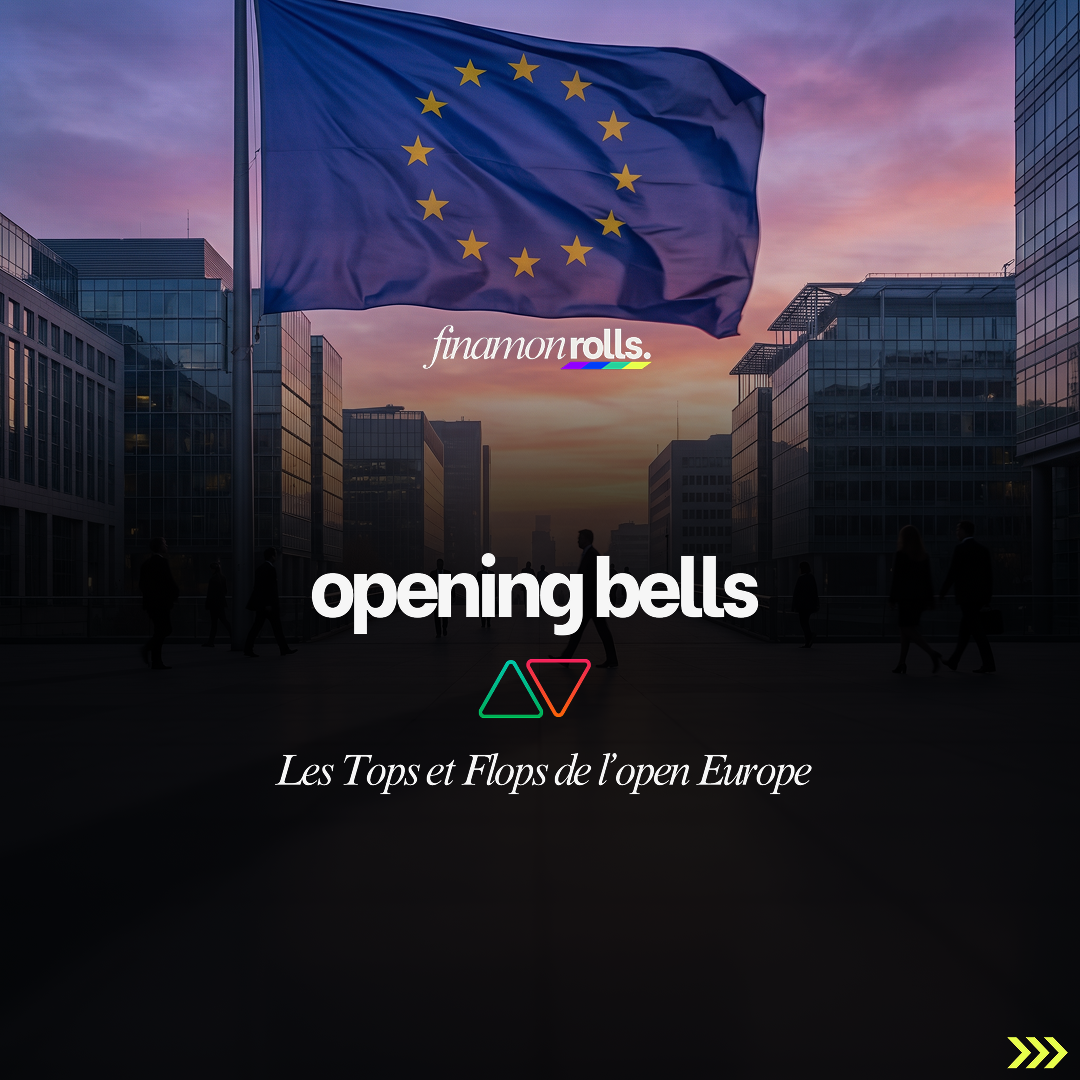
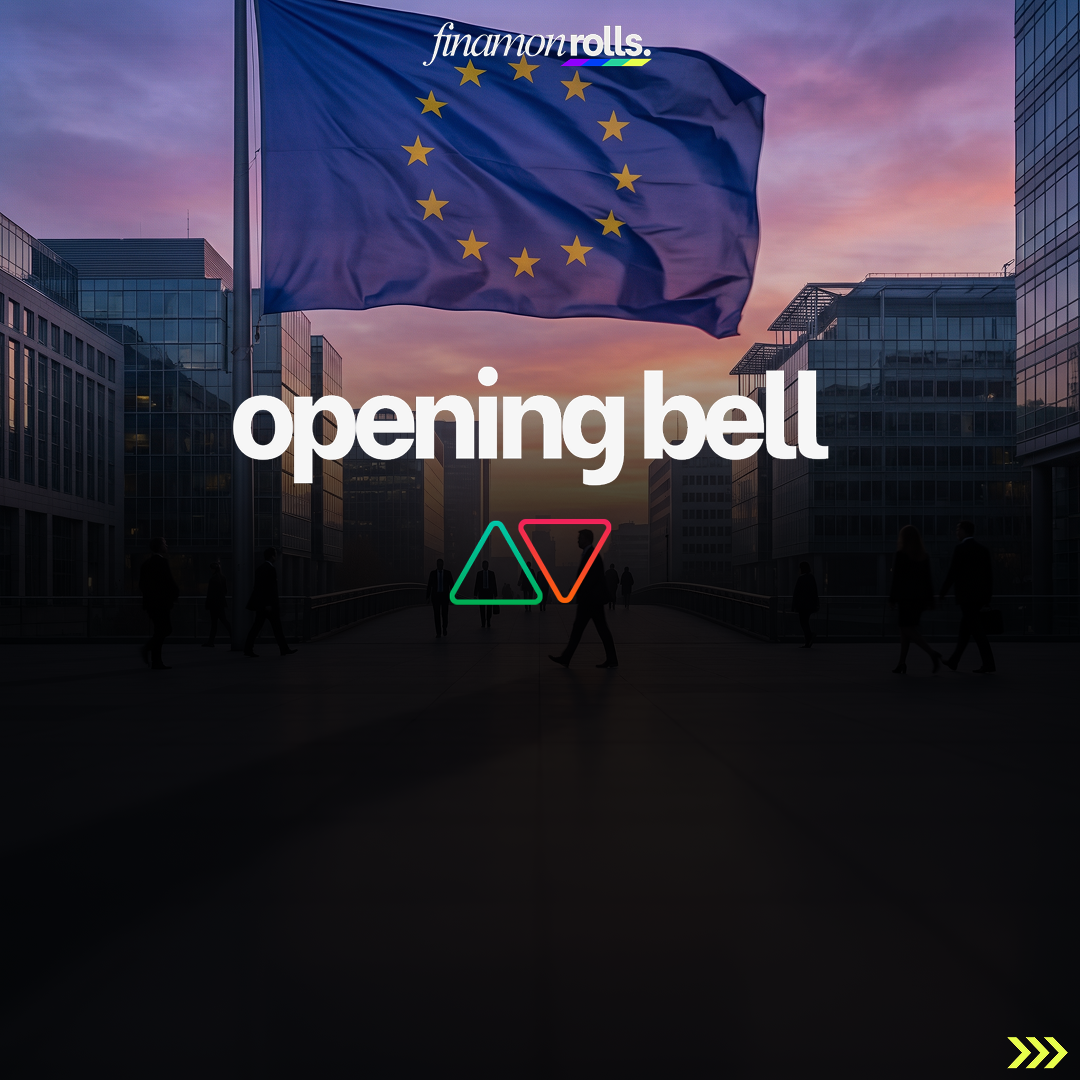
Update Open slide 1 date text/style

Changed region(s): [[0.2139, 0.3056, 0.7639, 0.6722], [0.2444, 0.7028, 0.7639, 0.7333], [0.3972, 0.0306, 0.6111, 0.0611]]

diff --git a/front/views/CarrouselOpen.py b/front/views/CarrouselOpen.py
@@ -19,8 +19,8 @@ ASSETS_DIR = os.path.join(
 )
 FONT_BOLD_PATH = os.path.join(ASSETS_DIR, "Manrope-Bold.ttf")
 FONT_SEMI_BOLD_PATH = os.path.join(ASSETS_DIR, "Manrope-SemiBold.ttf")
-DATE_FONT_SIZE = 46
-DATE_TOP = 850
+DATE_FONT_SIZE = 42
+DATE_TOP = 600
 DATE_FILL = "#F6F6F6"
 DATE_HIGHLIGHT_BG = "#5B2EFF"
 DATE_HIGHLIGHT_PAD_X = 10
@@ -86,7 +86,7 @@ def _format_french_date(dt: datetime | None = None) -> str:
         "janvier", "février", "mars", "avril", "mai", "juin",
         "juillet", "août", "septembre", "octobre", "novembre", "décembre",
     ]
-    return f"{dt.day:02d} {months[dt.month - 1]} {dt.year}"
+    return f"l'open Europe du {dt.day:02d} {months[dt.month - 1]} {dt.year}"
 
 
 def _load_font(path: str, size: int) -> ImageFont.ImageFont:
@@ -223,13 +223,6 @@ def _render_slide_bytes(filename: str, path: str) -> bytes:
         text_width = draw.textlength(date_text, font=font)
         text_height = int(DATE_FONT_SIZE * 1.2)
         x = (img.size[0] - text_width) // 2
-        rect = (
-            x - DATE_HIGHLIGHT_PAD_X,
-            DATE_TOP - DATE_HIGHLIGHT_PAD_Y,
-            x + text_width + DATE_HIGHLIGHT_PAD_X,
-            DATE_TOP + text_height + DATE_HIGHLIGHT_PAD_Y,
-        )
-        draw.rectangle(rect, fill=DATE_HIGHLIGHT_BG)
         draw.text((x, DATE_TOP), date_text, font=font, fill=DATE_FILL)
     elif slide_number == 2:
         draw = ImageDraw.Draw(img)
